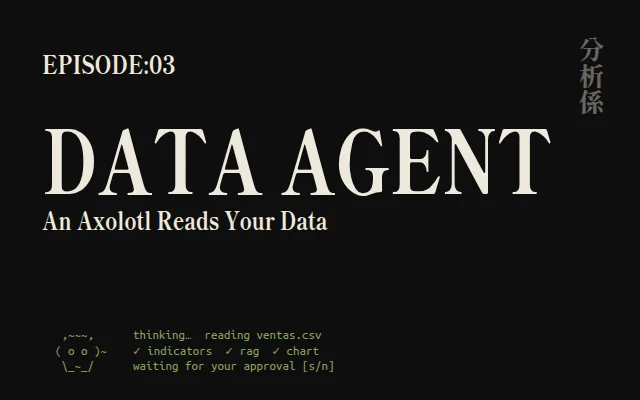
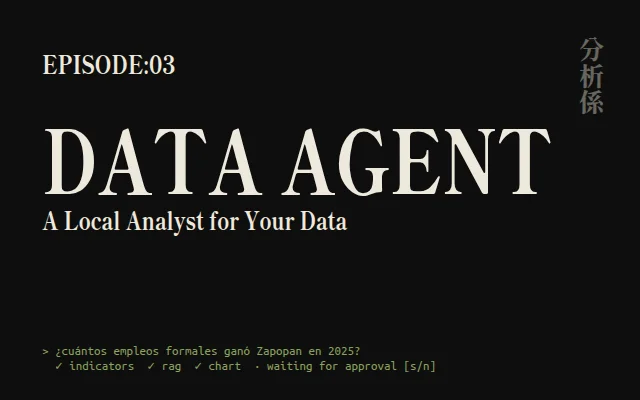
docs(profile): fix IIEG link, drop axolotl references, show boot log inline with longer final hold and remove architect note

Changed region(s): [[0.0625, 0.81, 0.6875, 0.93], [0.0938, 0.51, 0.5625, 0.6]]

diff --git a/README.md b/README.md
@@ -5,8 +5,8 @@
 AI Engineer from Guadalajara, Mexico. I build retrieval systems, agents and MCP servers, plus the
 unglamorous parts that keep them alive. Most of it speaks Spanish.
 
-- 🏛 **[IIEG](https://iieg.gob.mx)**: AI Engineer + Software Dev + Data Engineer + whatever's needed that week
-- 🦎 **[Datzin](https://datzin.com.mx)**: co-founder, aspiring tech communicator, maker of for-fun projects in case one of them turns into something someday (closest emoji to an axolotl, sorry)
+- 🏛 **[IIEG](https://iieg.jalisco.gob.mx/)**: AI Engineer + Software Dev + Data Engineer + whatever's needed that week
+- 🧪 **[Datzin](https://datzin.com.mx)**: co-founder, aspiring tech communicator, maker of for-fun projects in case one of them turns into something someday
 - 🧩 **Ixti**: AI consultant
 - 🎓 **UdeG**: M.Sc. thesis on Spanish embeddings that help agents pick the right tool
 
@@ -18,7 +18,7 @@ unglamorous parts that keep them alive. Most of it speaks Spanish.
 - 🖥 **Hardware and homelab**, one of my questionable life decisions.
 - 🐈 **One cat.** He hates me until he decides he doesn't. Real love.
 - 🍳 **Cooking.** Like dev: three hours of work, gone in five minutes.
-- 🧠 **Expert in nothing, I dabble in everything.** We're here to learn.
+- 🧠 **Expert in nothing, working on everything.** We're here to learn.
 
 ### Toolbox
 
@@ -29,13 +29,7 @@ unglamorous parts that keep them alive. Most of it speaks Spanish.
 ![Skills](https://img.shields.io/badge/skills_%26_agents-more_than_features-5B4A7D?style=flat-square&logo=markdown&logoColor=white)
 ![Vibe Coder](https://img.shields.io/badge/Vibe_Coder-with_an_engineering_degree-1C1B19?style=flat-square)
 
-<sub>I don't ask AI for code and hope for the best. I design the system and write the skills, rules and agents, and the harness does the typing. **Architect of what the AI builds.**</sub>
-
-<details>
-<summary><sub><code>$ dmesg | tail</code></sub></summary>
-<br>
 <img src="assets/boot.gif" alt="Boot log listing my stack, ending with: cat.service refuses to cooperate (expected)" width="100%">
-</details>
 
 ## Episodes
 
@@ -56,7 +50,7 @@ unglamorous parts that keep them alive. Most of it speaks Spanish.
     <td width="33%" valign="top">
       <img src="assets/data-agent.webp" alt="Data Agent episode card">
       <br><b>Data Agent</b> <sub><code>private</code></sub>
-      <br><sub>A local-first data analyst built on Deep Agents + Ollama. It handles indicators, hybrid RAG, charts and reports, and asks you before acting. An ASCII axolotl narrates.</sub>
+      <br><sub>A local-first data analyst built on Deep Agents + Ollama. It handles indicators, hybrid RAG, charts and reports, and asks you before acting.</sub>
     </td>
   </tr>
 </table>
